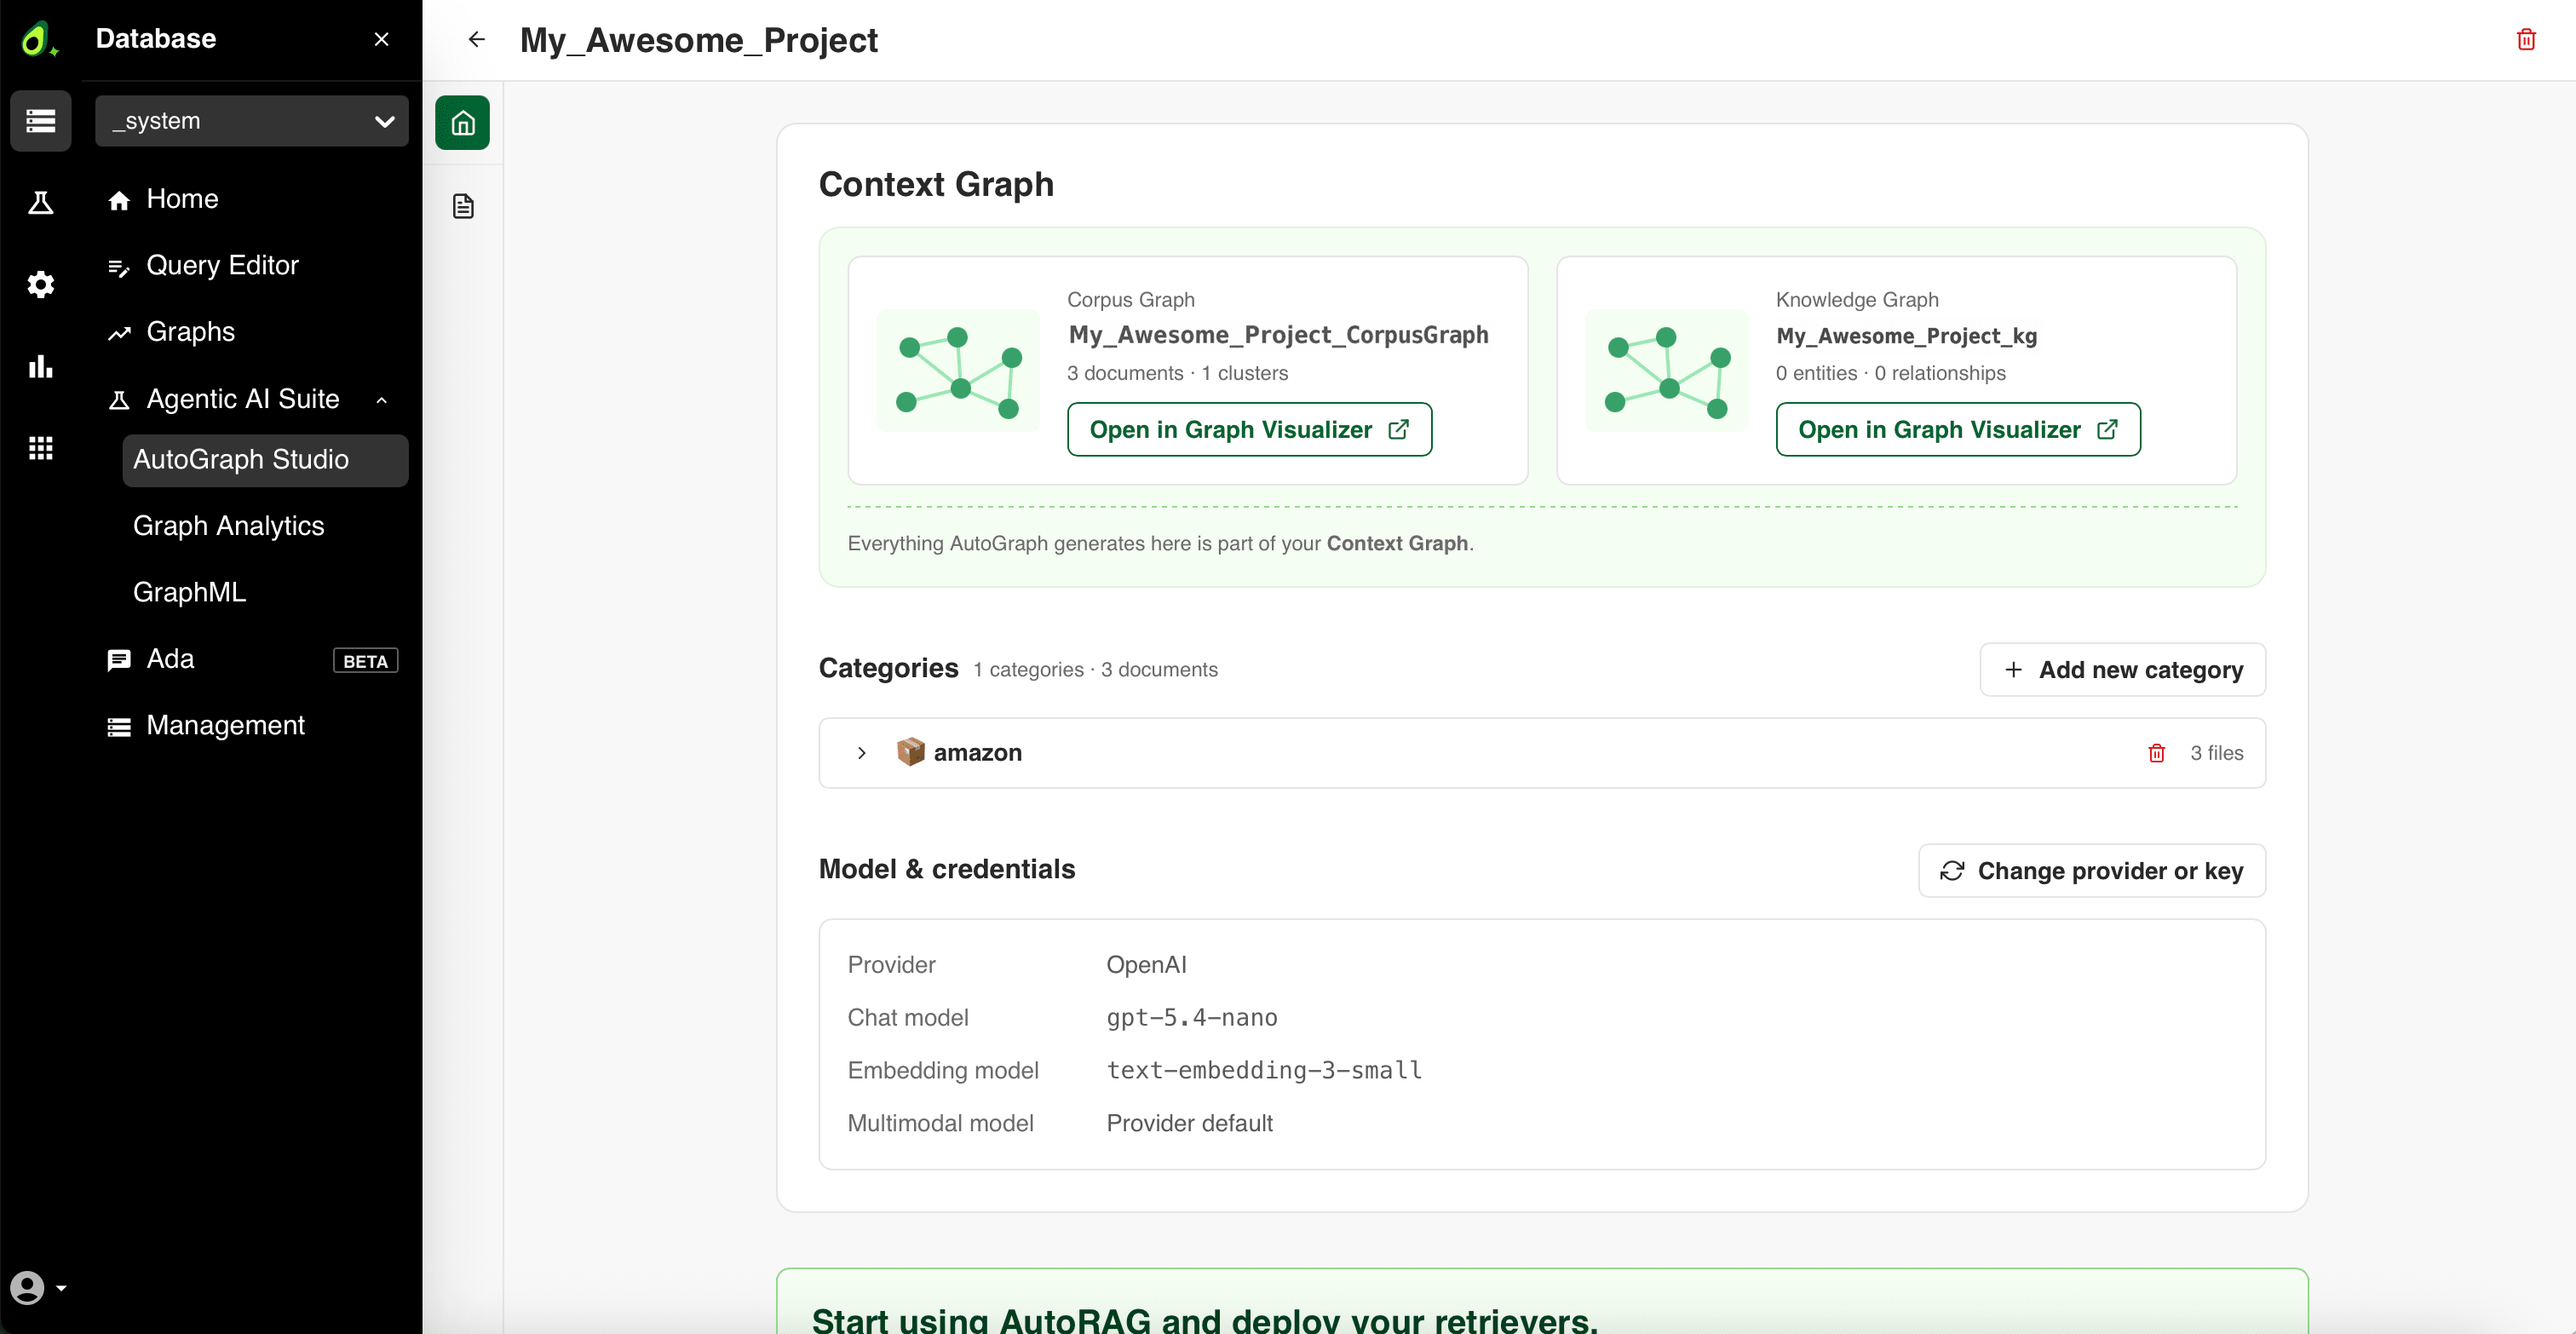
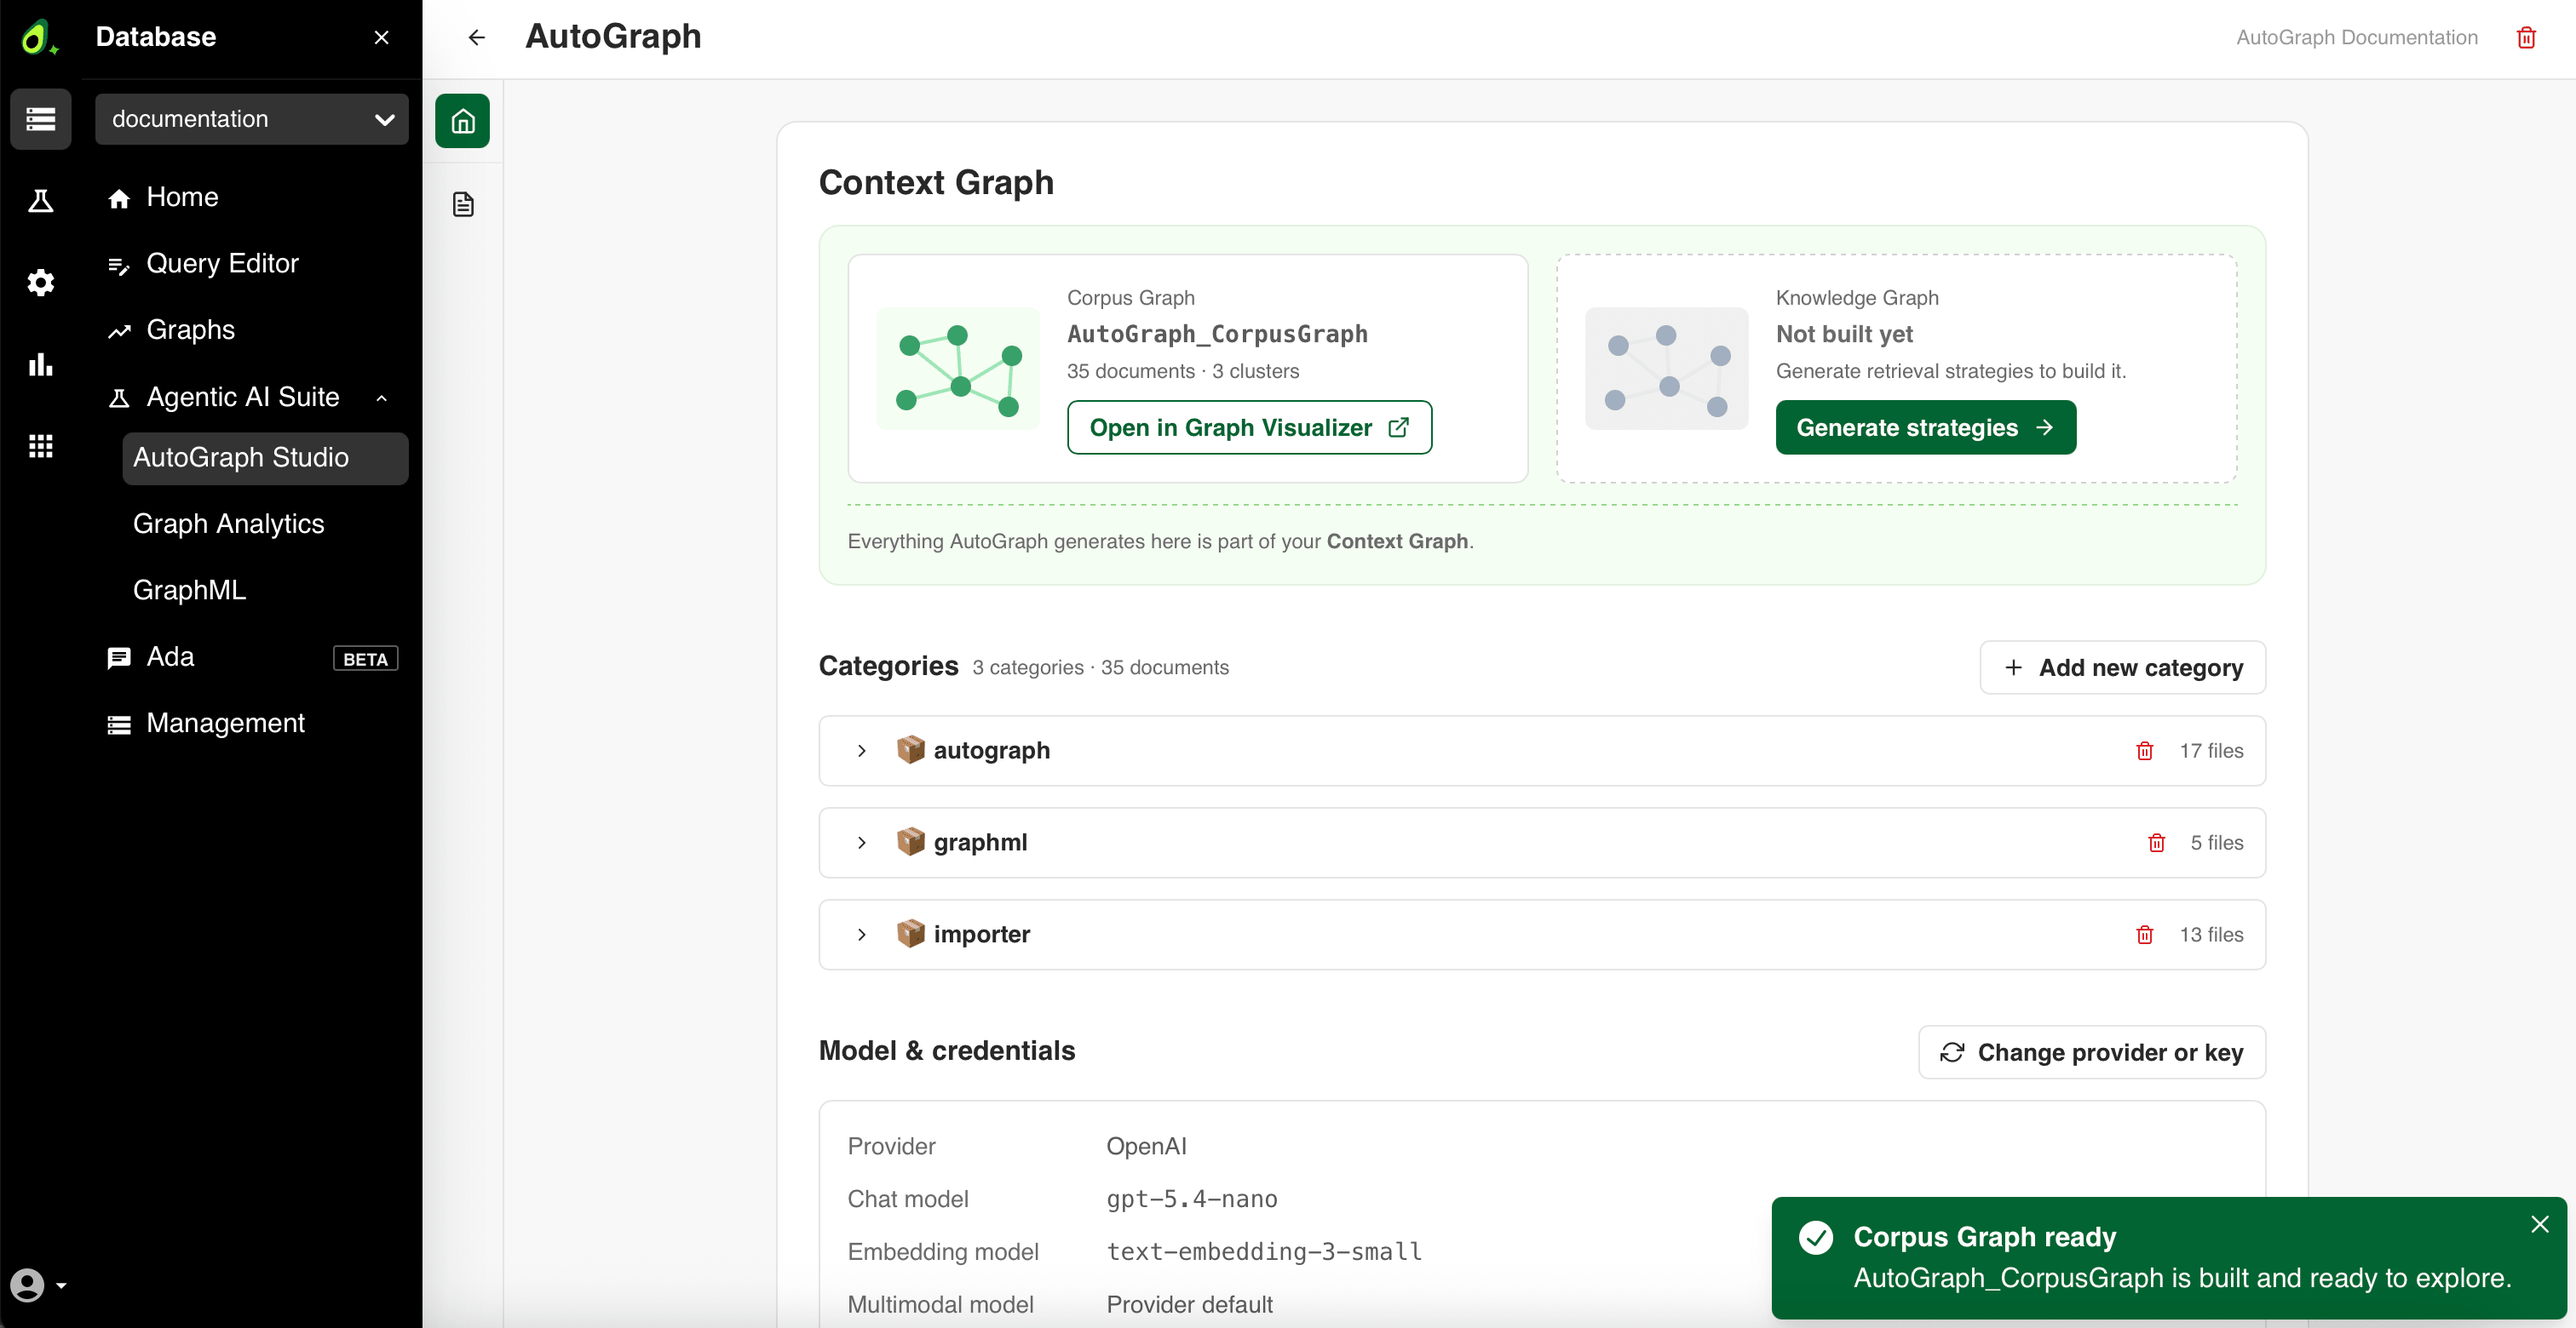
Screens 2

diff --git a/site/content/agentic-ai-suite/autograph/web-interface.md b/site/content/agentic-ai-suite/autograph/web-interface.md
@@ -244,6 +244,8 @@ nodes to the canvas, run queries, change the layout, and style node types by
 color, icon, and label, including attribute-based rules. For more information,
 see [Graph Visualizer](../../platform-suite/graph-visualizer.md).
 
+![The Corpus Graph of a project in the Graph Visualizer](../../images/autograph-ui-corpus-visualizer.png)
+
 ## Add more documents
 
 You can add documents to an existing project at any time.
@@ -312,18 +314,25 @@ is disabled below **Thorough** and always on at **Deep**.
 The **Estimated cost** card shows the relative cost of your selection, which
 scales with how much you lean on GraphRAG and with image extraction.
 
+![The Configure step of the strategy generation wizard](../../images/autograph-ui-strategies-configure.png)
+
 Click **Generate strategies**. Generation runs server-side, so you can leave the
 page and come back. The wizard moves to **Review** and reports progress as
-*Analyzing your corpus…* with the number of clusters analyzed.
+*Analyzing your corpus…*.
+
+![The strategy generation wizard analyzing the corpus](../../images/autograph-ui-strategies-generating.png)
 
 ### Review strategies
 
-The **Review strategies** step summarizes how many clusters were created and how
-many got GraphRAG and VectorRAG. The table lists each category and the clusters
-below it, with the assigned **Strategy**, the size of its **Ontology**, and the
-number of **Documents**. Your edits here are staged and applied when you build —
-the footer counts them, for example *1 staged edit — applied on build*, and
-edited rows are marked with an **edited** badge.
+The **Review strategies** step lists each category and the clusters below it,
+with the assigned **Strategy**, the size of its **Ontology**, and the number of
+**Documents**. Every category row summarizes its clusters, for example
+*1 cluster · 1 GraphRAG · ontology: 12 types*. Your edits here are staged and
+applied when you build — the footer counts them, for example
+*1 staged edit — applied on build*, and edited rows are marked with an
+**edited** badge.
+
+![The Review strategies step of the strategy generation wizard](../../images/autograph-ui-strategies-review.png)
 
 - Click **Edit** on a cluster to open its editor. You can switch the strategy
   **Type** between **GraphRAG** and **VectorRAG**, toggle
@@ -341,7 +350,8 @@ VectorRAG clusters have no ontology to customize and do not extract images.
 Switch a cluster to **GraphRAG** to build entities and relationships from it.
 {{< /info >}}
 
-Click **Build Knowledge Graph** when you are happy with the strategies.
+Click **Continue to build** when you are happy with the strategies, or
+**Back to configure** to change the complexity and regenerate.
 
 {{< warning >}}
 If a GraphRAG cluster has no entity types, a dialog lists the affected clusters.
@@ -355,8 +365,21 @@ editor or via the category's **Override**, or **Build anyway** to continue.
 
 The **Build** step imports every cluster with its assigned strategy: GraphRAG
 clusters extract entities and relationships, VectorRAG clusters embed chunks. It
-reports how many clusters have completed and failed. For details, see
+names what it is about to build, for example
+*Building 2 GraphRAG clusters and 1 VectorRAG cluster*. For details, see
 [Orchestration](reference/orchestration.md).
+
+Set **Parallel builds** to the number of clusters to import at the same time.
+More parallel builds finish faster but put more load on the service. The default
+is `1`.
+
+![The Build step of the strategy generation wizard](../../images/autograph-ui-kg-build.png)
+
+Click **Build Knowledge Graph** to start the import. It reports progress as
+*Importing your corpus…* and runs server-side, so you can leave the page and
+come back.
+
+![The strategy generation wizard building the Knowledge Graph](../../images/autograph-ui-kg-building.png)
 
 When the import finishes, **Knowledge Graph built** is displayed. Click
 **Go to overview** to return to the project, where the **Knowledge Graph** card
@@ -366,6 +389,8 @@ now shows the graph as built.
 You can explore the Knowledge Graph in the
 [Graph Visualizer](../../platform-suite/graph-visualizer.md) at any time.
 {{< /tip >}}
+
+![The Knowledge Graph of a project in the Graph Visualizer](../../images/autograph-ui-kg-visualizer.png)
 
 ## Change the provider or key
 
@@ -394,10 +419,17 @@ is ready. **Deploy a retriever** stays disabled until the Knowledge Graph is
 built, and the **Retrievers** panel points you back to the overview to build it.
 {{< /info >}}
 
+![The Retrievers panel before the Context Graph is ready](../../images/autograph-ui-retrievers-not-ready.png)
+
 1. Open the **Retrievers** panel from the document icon in the project sidebar,
    or click **Deploy a retriever** in the **AutoRAG** section of the project
    overview.
-2. In the **Retriever services** list, click **+ Deploy**.
+2. In the **Retriever services** list, click **+ Deploy**. Until you deploy one,
+   the panel reports *No retriever services yet* and offers a
+   **Deploy retriever** button as well.
+
+   ![The Retrievers panel without any deployed retriever](../../images/autograph-ui-retrievers-empty.png)
+
 3. In the **Deploy retriever** form, configure the following:
    - **CHAT LLM**: The **Provider** (for example **OpenAI**), the
      **Chat model** (for example **GPT-5.4 Nano**), and the **Chat API key**.
@@ -491,10 +523,24 @@ trust. It has the following views:
   so you can compare a claim against the original wording. Documents imported
   with a canonical URL link out to it — see
   [`citable_url`](../importer/reference/parameters.md#file-source-parameters).
+  Each entry also offers **Open document in database**.
+
+  ![The Citations view of the Provenance panel](../../images/autograph-ui-provenance-citations.png)
+
 - **Graph**: The part of your Context Graph the answer was drawn from — the
   entities and relationships the retriever traversed to assemble it. This is
   where a GraphRAG answer differs from a plain vector search: you see the
-  connections that produced the answer, not just the matching text.
+  connections that produced the answer, not just the matching text. The view
+  counts what it holds, for example *157 entities* and *265 relationships*.
+
+  ![The Graph view of the Provenance panel](../../images/autograph-ui-provenance-graph.png)
+
+  Use the expand icon to open the slice as a **Context Graph slice** dialog, or
+  **Open in Visualizer** to explore it in the
+  [Graph Visualizer](../../platform-suite/graph-visualizer.md).
+
+  ![The Context Graph slice dialog of an answer](../../images/autograph-ui-provenance-graph-expanded.png)
+
 - **Trace**: Only shown for **Deep Search** answers. Deep Search splits your
   question into sub-questions and runs each step with the tool it selected for
   it, and the trace reports that work. Its header counts the steps and the tools
